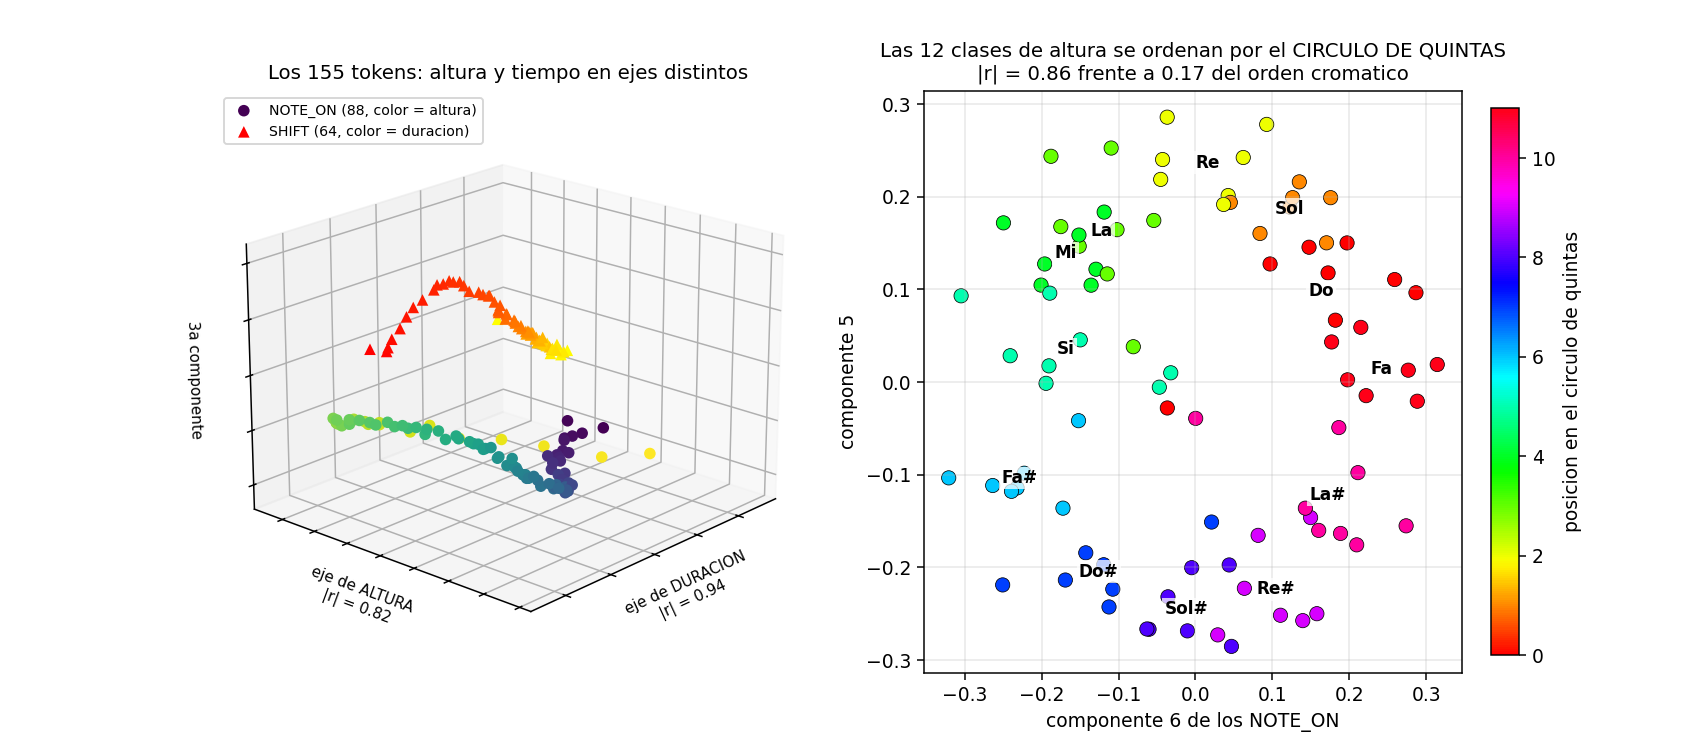
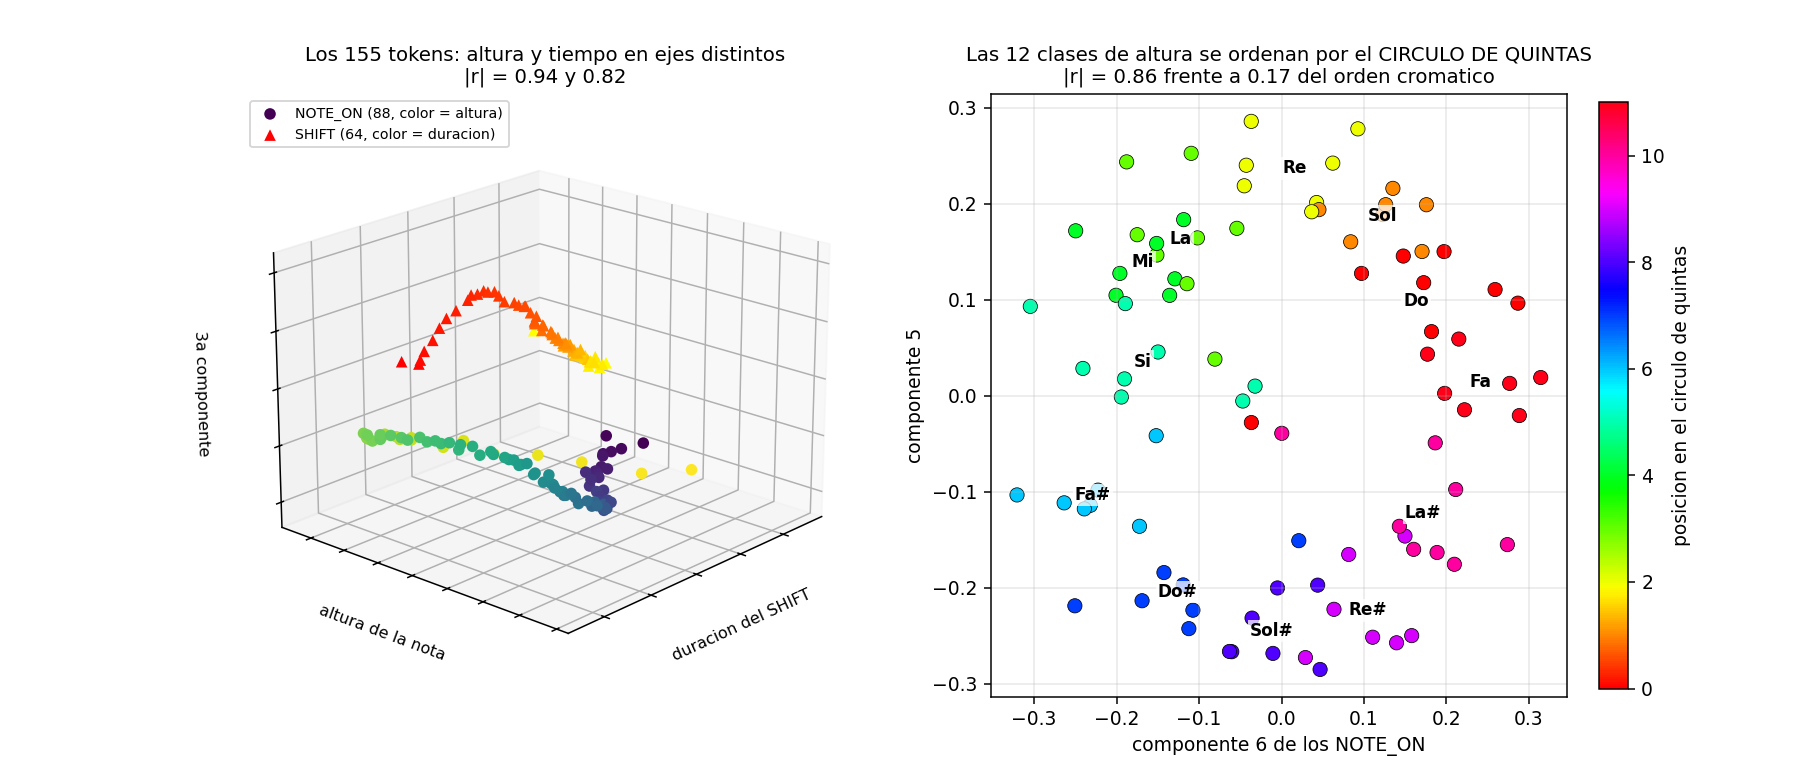
Arregla el centrado del README y las etiquetas superpuestas
El README tenia un <div align="center"> sin cerrar, asi que GitHub centraba
TODO lo que venia detras, bloques de codigo incluidos. Se cierra tras la
portada.

Figuras:
  * helicoide_tonal.png: el titulo general pisaba el subtitulo del panel
    central (set_title en ejes 3D se mete dentro de la caja, ahora va con
    fig.text) y las 12 etiquetas de nota se amontonaban en paneles pequeños;
    se quitan, que su sitio es el GIF, donde la vista cenital las separa.
  * prediccion_vs_generacion.png: los nombres de modelo pegados a cada punto
    se solapaban. Ahora un color por modelo compartido entre los dos paneles,
    y la leyenda se queda solo con las dos formas, porque los nombres ya estan
    en el eje del panel derecho.
  * espacio_embeddings.png: labelpad negativo metia las etiquetas de eje dentro
    de la caja y se cortaban; el dato del |r| se lleva al titulo.

diff --git a/scripts/21_metricas_paper.py b/scripts/21_metricas_paper.py
@@ -106,27 +106,43 @@ def figura(filas, pareada, libre):
     gp = [float(pareada[m]["media"]) for m in modelos]
     gl = [float(libre[m]["gen_score_del_lote"]) if m in libre else float("nan") for m in modelos]
 
-    fig, (ax1, ax2) = plt.subplots(1, 2, figsize=(13, 5.4))
-    ax1.scatter(nll, gp, s=90, c="#1b6ca8", zorder=3, label="prefijo del corpus (pareado)")
-    ax1.scatter(nll, gl, s=90, c="#c1452e", marker="^", zorder=3, label="generacion libre")
-    for x, y, y2, m in zip(nll, gp, gl, modelos):
-        ax1.annotate(m, (x, y), fontsize=7.5, xytext=(4, 5), textcoords="offset points")
-        if y2 == y2:
-            ax1.plot([x, x], [y, y2], color="#999999", lw=.8, zorder=2)
-    ax1.set_xlabel("NLL de validacion (nats/token) -- la metrica del paper\n<- mejor prediccion")
-    ax1.set_ylabel("gen_score")
-    ax1.set_title("Predecir mejor no es generar mejor", fontsize=11)
-    ax1.grid(alpha=.3); ax1.legend(fontsize=8)
+    # Un color por modelo, compartido por los dos paneles, y la leyenda fuera del
+    # area de datos. Antes cada punto llevaba su nombre pegado y con seis modelos
+    # de nombres largos se solapaban unos con otros.
+    fig, (ax1, ax2) = plt.subplots(1, 2, figsize=(13.2, 5.6))
+    paleta = plt.get_cmap("tab10")
+    color = {m: paleta(i % 10) for i, m in enumerate(modelos)}
 
-    y = np.arange(len(modelos))
+    for m, xv, yv, y2 in zip(modelos, nll, gp, gl):
+        ax1.plot([xv, xv], [yv, y2], color=color[m], lw=1.1, alpha=.45, zorder=2)
+        ax1.scatter([xv], [yv], s=110, color=color[m], zorder=3)
+        if y2 == y2:
+            ax1.scatter([xv], [y2], s=110, color=color[m], marker="^",
+                        zorder=3, edgecolors="white", linewidths=.6)
+    ax1.set_xlabel("NLL de validacion (nats/token) — la metrica del paper"
+                   "\n← mejor prediccion")
+    ax1.set_ylabel("gen_score")
+    ax1.set_title("Predecir mejor no es generar mejor", fontsize=11.5)
+    ax1.grid(alpha=.3)
+
     orden = np.argsort(gp)[::-1]
-    ax2.barh(y - .2, [gp[i] for i in orden], height=.38, color="#1b6ca8", label="prefijo del corpus")
-    ax2.barh(y + .2, [0 if gl[i] != gl[i] else gl[i] for i in orden], height=.38,
-             color="#c1452e", label="generacion libre")
-    ax2.set_yticks(y); ax2.set_yticklabels([modelos[i] for i in orden], fontsize=8.5)
+    y = np.arange(len(modelos))
+    ax2.barh(y - .2, [gp[i] for i in orden], height=.36,
+             color=[color[modelos[i]] for i in orden])
+    ax2.barh(y + .2, [0 if gl[i] != gl[i] else gl[i] for i in orden], height=.36,
+             color=[color[modelos[i]] for i in orden], alpha=.45, hatch="//")
+    ax2.set_yticks(y); ax2.set_yticklabels([modelos[i] for i in orden], fontsize=9)
     ax2.invert_yaxis(); ax2.set_xlabel("gen_score"); ax2.set_xlim(0, 100)
-    ax2.set_title("El mismo modelo, dos escenarios", fontsize=11)
-    ax2.grid(axis="x", alpha=.3); ax2.legend(fontsize=8)
+    ax2.set_title("El mismo modelo, dos escenarios\n"
+                  "solido = prefijo del corpus  ·  rayado = generacion libre",
+                  fontsize=11.5)
+    ax2.grid(axis="x", alpha=.3)
+    from matplotlib.lines import Line2D
+    ax1.legend(handles=[Line2D([], [], marker="o", ls="", color="#555555", ms=8,
+                               label="prefijo del corpus"),
+                        Line2D([], [], marker="^", ls="", color="#555555", ms=8,
+                               label="generacion libre")],
+               fontsize=8.5, loc="lower left", framealpha=.92)
     fig.tight_layout()
     out = ROOT / "reports" / "figures" / "prediccion_vs_generacion.png"
     out.parent.mkdir(parents=True, exist_ok=True)

diff --git a/scripts/23_helicoide_tonal.py b/scripts/23_helicoide_tonal.py
@@ -185,24 +185,35 @@ def gif(h, n_frames=120):
 
 
 def png(hs):
-    """Comparacion: quien aprende la helice y quien no."""
+    """Comparacion: quien aprende el circulo de quintas y quien no.
+
+    Sin etiquetas de nota en los paneles: con tres cilindros pequeños se
+    amontonan y no se leen. Los nombres van en el GIF, que es donde la vista
+    cenital las separa. Los subtitulos se colocan con fig.text y no con
+    set_title, porque set_title los mete dentro de la caja del eje 3D y se
+    solapan con el titulo general.
+    """
     import matplotlib; matplotlib.use("Agg")
     import matplotlib.pyplot as plt
-    fig = plt.figure(figsize=(4.5 * len(hs), 5.0), facecolor=FONDO)
-    for i, h in enumerate(hs, 1):
-        ax = fig.add_subplot(1, len(hs), i, projection="3d", facecolor=FONDO)
-        _dibuja_helice(ax, h, con_etiquetas=(i == 1), s=34)
+    n = len(hs)
+    fig = plt.figure(figsize=(4.3 * n, 4.3), facecolor=FONDO)
+    for i, h in enumerate(hs):
+        ax = fig.add_subplot(1, n, i + 1, projection="3d", facecolor=FONDO)
+        _dibuja_helice(ax, h, con_etiquetas=False, s=30)
         ax.view_init(elev=14, azim=38)
         limpio = h["fraccion_saltos_regulares"]
         color = "#5ad18f" if limpio > .9 else ("#e8b44a" if limpio > .7 else "#e05b5b")
-        ax.set_title("%s\n%+.1f°/semitono · %.0f%% regulares"
-                     % (h["exp"], h["grados_por_semitono"], 100 * limpio),
-                     color=color, fontsize=9.5, pad=2)
-    fig.text(.5, .965, "¿Quien aprende el circulo de quintas?", color="white",
+        cx = (i + 0.5) / n
+        fig.text(cx, .885, h["exp"], color=color, fontsize=10.5, ha="center", weight="bold")
+        fig.text(cx, .845, "%+.1f°/semitono  ·  %.0f%% de saltos regulares"
+                 % (h["grados_por_semitono"], 100 * limpio),
+                 color=color, fontsize=8.8, ha="center", alpha=.85)
+    fig.text(.5, .955, "¿Quien aprende el circulo de quintas?", color="white",
              fontsize=15, ha="center", weight="bold")
-    fig.text(.5, .028, "cada columna es una clase de altura con todas sus octavas   ·   un semitono son -150°",
-             color="#6b7f95", fontsize=9, ha="center")
-    fig.subplots_adjust(left=-.02, right=1.02, top=.93, bottom=.06, wspace=-.06)
+    fig.text(.5, .035, "cada columna es una clase de altura con todas sus octavas   ·   "
+                       "un paso del circulo de quintas son -150°",
+             color="#6b7f95", fontsize=8.8, ha="center")
+    fig.subplots_adjust(left=-.01, right=1.01, top=.83, bottom=.06, wspace=-.04)
     out = ROOT / "reports" / "figures" / "helicoide_tonal.png"
     fig.savefig(out, dpi=140, facecolor=FONDO); plt.close(fig)
     return out

diff --git a/scripts/22_espacio_embeddings.py b/scripts/22_espacio_embeddings.py
@@ -146,9 +146,9 @@ def figuras(exp: str, a: dict, n_frames: int = 90):
         ax.scatter(x[shifts], y[shifts], z[shifts], c=np.arange(1, MAX_SHIFT + 1),
                    cmap="autumn", s=38, marker="^", depthshade=False, edgecolors="none",
                    label="SHIFT (64, color = duracion)")
-        ax.set_xlabel("eje de DURACION\n|r| = %.2f" % a["r_duracion"], fontsize=8, labelpad=-4)
-        ax.set_ylabel("eje de ALTURA\n|r| = %.2f" % a["r_altura"], fontsize=8, labelpad=-4)
-        ax.set_zlabel("3a componente", fontsize=8, labelpad=-4)
+        ax.set_xlabel("duracion del SHIFT", fontsize=8.5, labelpad=2)
+        ax.set_ylabel("altura de la nota", fontsize=8.5, labelpad=2)
+        ax.set_zlabel("3a componente", fontsize=8.5, labelpad=2)
         for f in (ax.set_xticklabels, ax.set_yticklabels, ax.set_zticklabels):
             f([])
 
@@ -157,8 +157,9 @@ def figuras(exp: str, a: dict, n_frames: int = 90):
     ax = fig.add_subplot(111, projection="3d")
     dibuja(ax)
     ax.legend(loc="upper left", fontsize=7.5, framealpha=.9)
-    ax.set_title("Espacio de embeddings de %s\nel modelo separa altura y tiempo sin que nadie se lo diga"
-                 % exp, fontsize=10)
+    ax.set_title("Espacio de embeddings de %s\n"
+                 "el eje de duracion correlaciona %.2f y el de altura %.2f"
+                 % (exp, a["r_duracion"], a["r_altura"]), fontsize=10)
     fig.tight_layout()
 
     def frame(i):
@@ -171,11 +172,12 @@ def figuras(exp: str, a: dict, n_frames: int = 90):
     plt.close(fig)
 
     # --- PNG: la vista 3D y el circulo de quintas ---
-    fig = plt.figure(figsize=(12.5, 5.6))
+    fig = plt.figure(figsize=(13.4, 5.8))
     ax1 = fig.add_subplot(121, projection="3d")
     dibuja(ax1); ax1.view_init(elev=20, azim=42)
     ax1.legend(loc="upper left", fontsize=7.5)
-    ax1.set_title("Los 155 tokens: altura y tiempo en ejes distintos", fontsize=10.5)
+    ax1.set_title("Los 155 tokens: altura y tiempo en ejes distintos\n"
+                  "|r| = %.2f y %.2f" % (a["r_duracion"], a["r_altura"]), fontsize=10.5)
 
     # las dos componentes con mas estructura circular, sobre los NOTE_ON
     Zn = a["Zn"]; q5 = (midi * 7) % 12

diff --git a/README.md b/README.md
@@ -16,6 +16,8 @@ y lo que cada uno **genera** — que resultan no ser lo mismo.
 
 ### El modelo descubrió el círculo de quintas sin que nadie se lo enseñara
 
+</div>
+
 Los 88 vectores que el modelo aprende para las notas no caen de cualquier manera. Se colocan
 en **doce columnas separadas 30° exactos**, y el orden alrededor del círculo no es el del
 teclado: es **Do · Sol · Re · La · Mi · Si · Fa# · Do# · Sol# · Re# · La# · Fa**, el círculo
